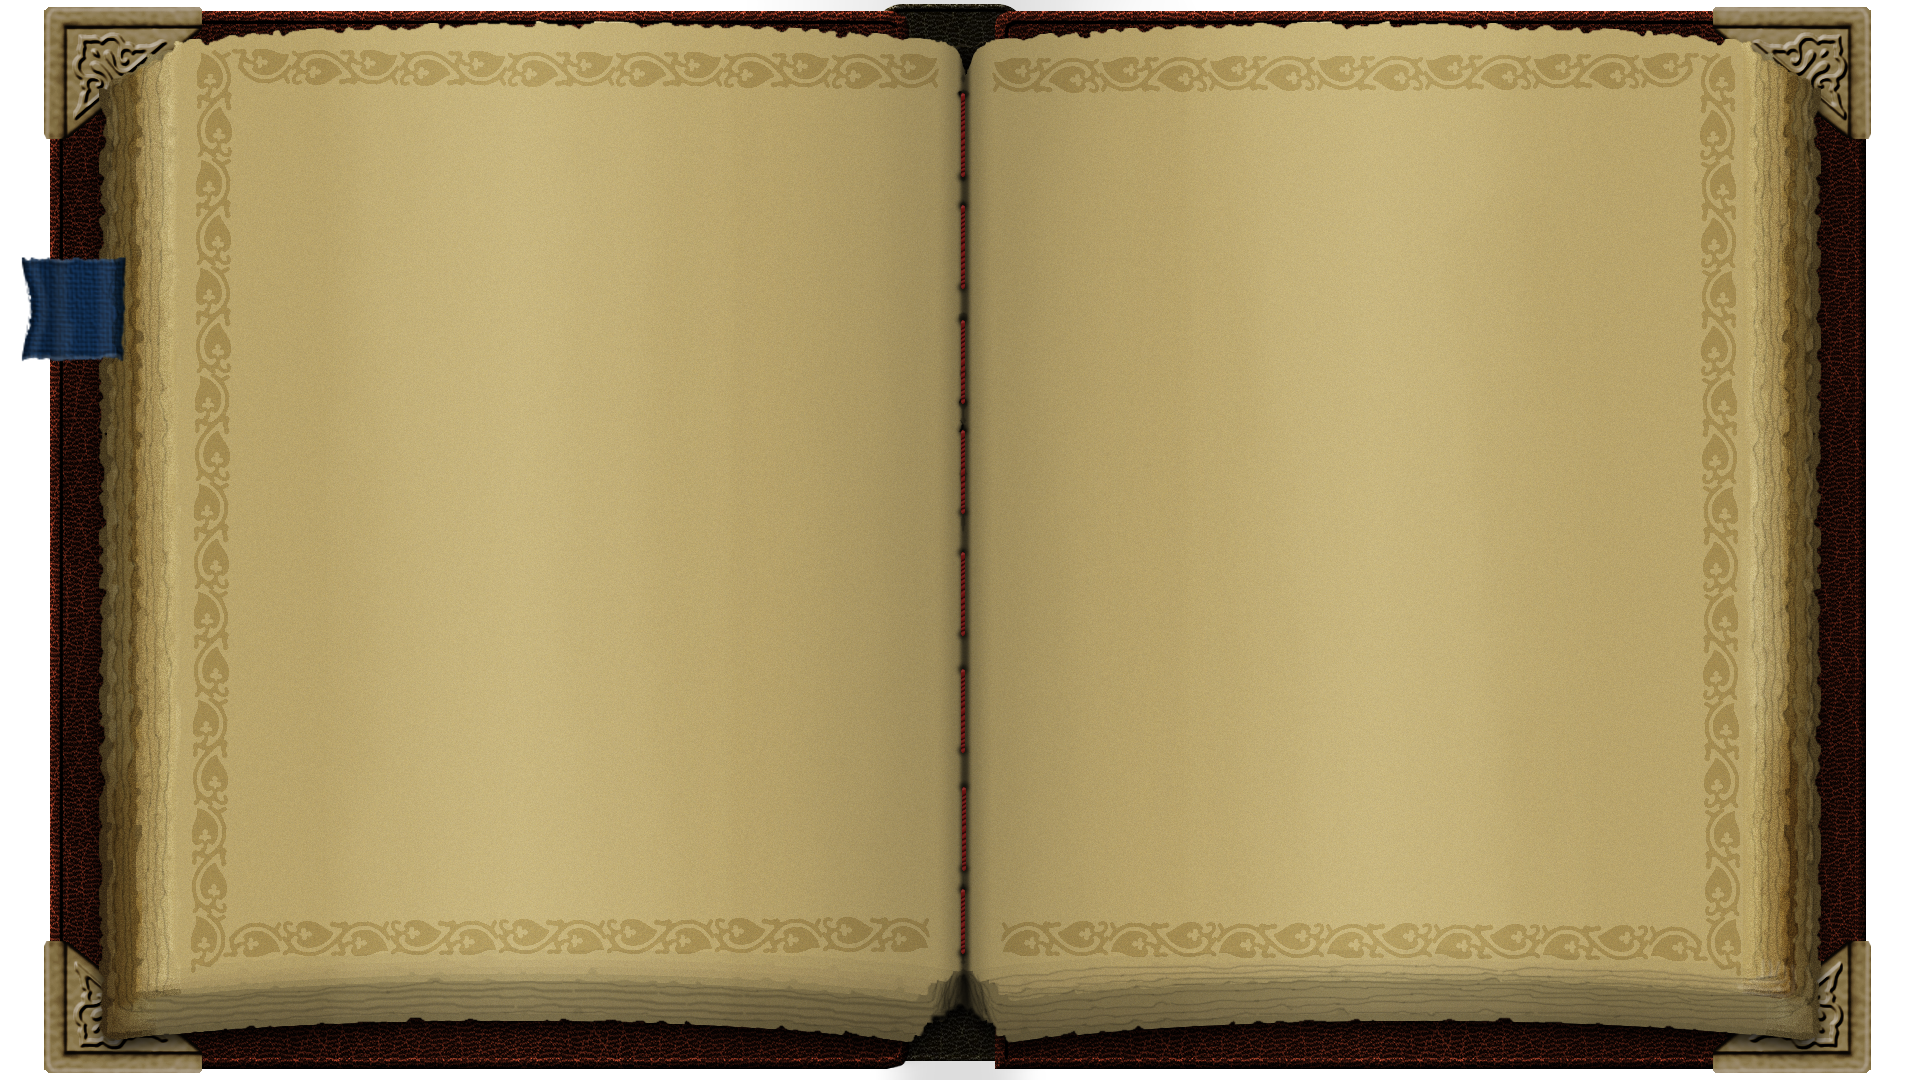
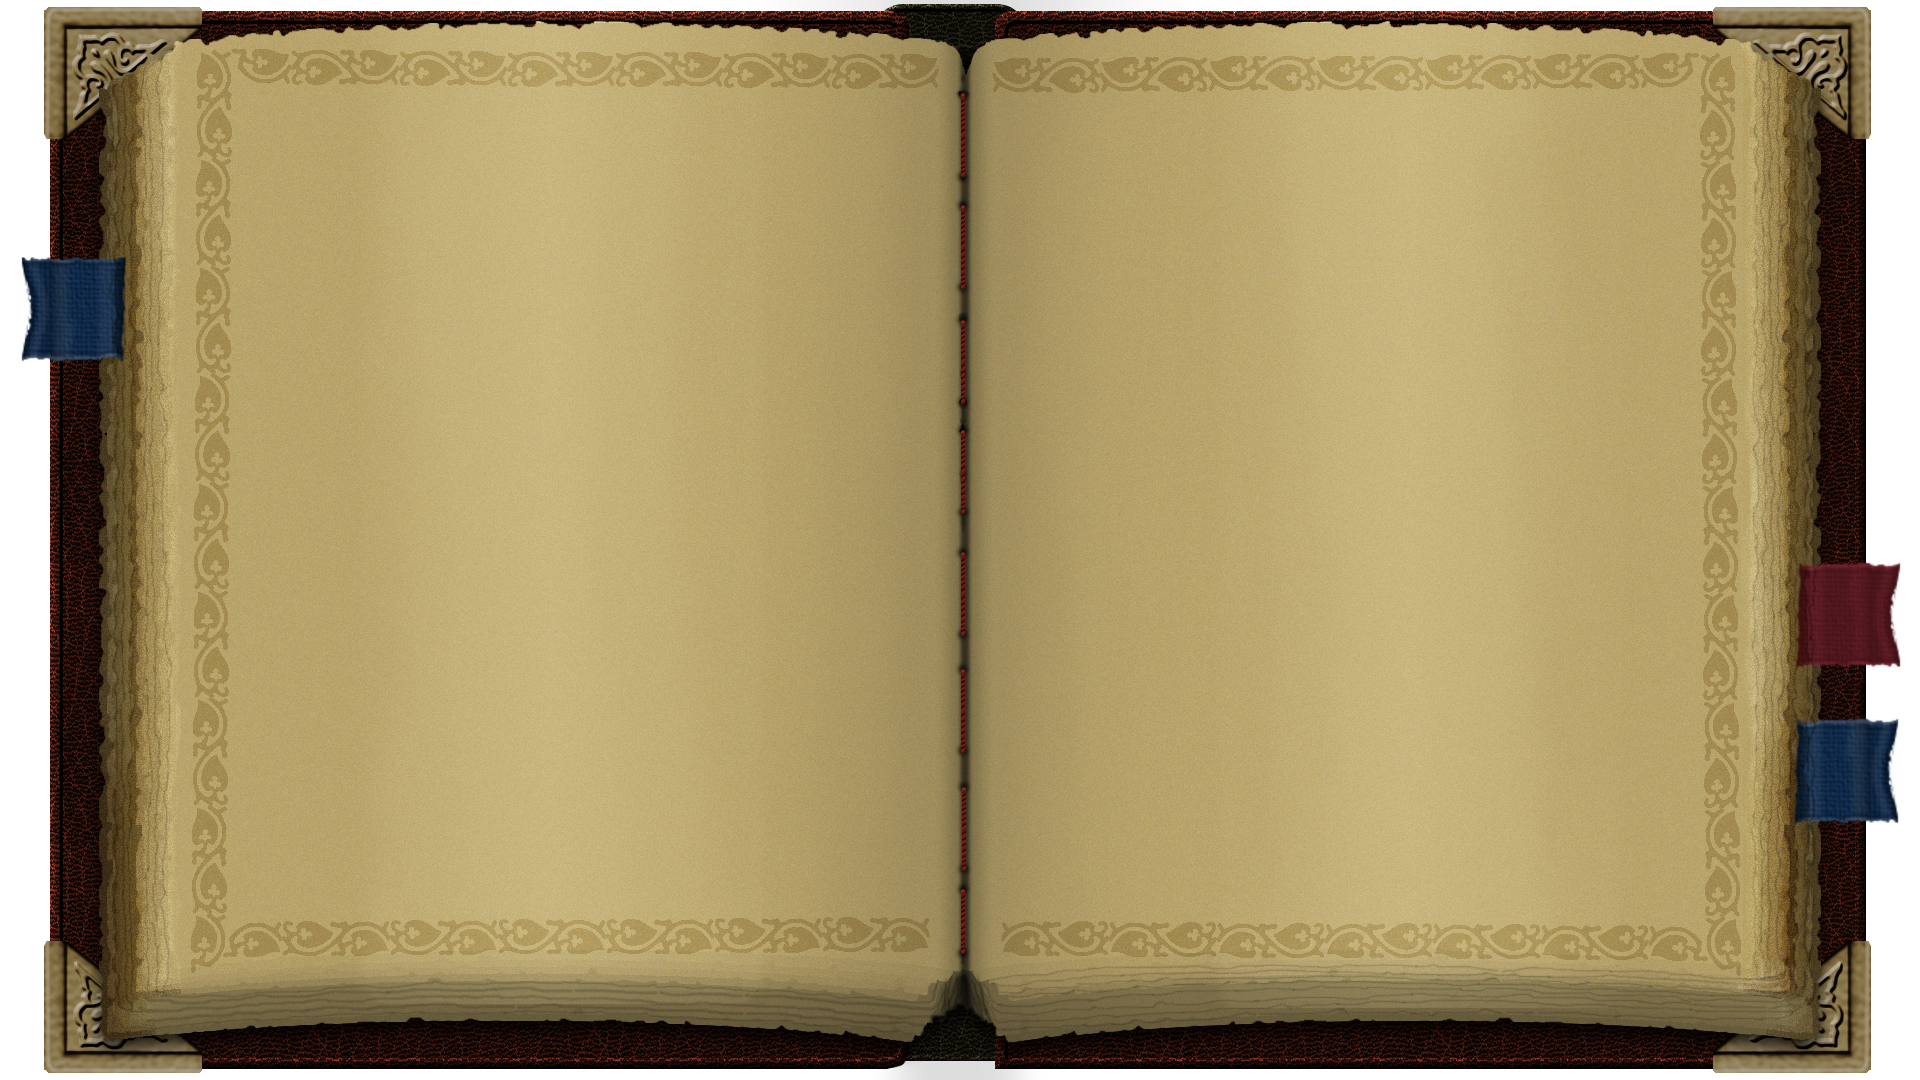
manage/build bookmarks, crafting buildings

Changed region(s): [[0.9375, 0.5194, 1.0, 0.7639]]

diff --git a/src/App.jsx b/src/App.jsx
@@ -2,11 +2,12 @@ import ResourceButton from "./ResourceButton";
 import "./App.css";
 import * as buildings from "./data/buildings";
 import * as craftedGoods from "./data/craftedGoods";
-import Build from "./Build";
 import { useEffect, useRef, useState } from "react";
 
-import BuildingsBar from "./BuildingsBar";
 import CraftButton from "./CraftButton";
+import CraftBuildingsPage from "./CraftBuildingsPage";
+import BuildBuildingPage from "./BuildBuildingPage";
+import Bookmark from "./Bookmark";
 
 function App() {
   const [resources, setResources] = useState({
@@ -18,6 +19,7 @@ function App() {
   const [production, setProduction] = useState({});
   const productionRef = useRef(production);
   const intervalsRef = useRef({});
+  const [avCraftBuildings, setAvCraftBuildings] = useState({});
 
   useEffect(() => {
     productionRef.current = production;
@@ -53,7 +55,7 @@ function App() {
     // Clean up intervals that are no longer in production
     Object.keys(intervalIds).forEach((id) => {
       const exists = Object.entries(production).some(
-        ([name, { resource }]) => `${name}-${resource}` === id
+        ([name, { resource }]) => `${name}-${resource}` === id,
       );
       if (!exists) {
         clearInterval(intervalIds[id]);
@@ -72,9 +74,9 @@ function App() {
   return (
     <div className="main">
       <div className="left">
-        <p>Your wood: {resources.wood}</p>
-        <p>Your stone: {resources.stone}</p>
-        <p>Your iron: {resources.iron}</p>
+        <p>wood: {resources.wood}</p>
+        <p>stone: {resources.stone}</p>
+        <p>iron: {resources.iron}</p>
         <p>
           {craftedGoods.plank.displayName}: {resources.plank}
         </p>
@@ -99,35 +101,20 @@ function App() {
       </div>
 
       <div className="right">
-        <Build
+        <div className="right-bookmarks">
+          <Bookmark bookmark={"Manage"} />
+          <Bookmark bookmark={"Build"} />
+        </div>
+        <BuildBuildingPage
+          buildings={buildings}
           setResources={setResources}
           resources={resources}
-          building={buildings.stoneMill}
           production={production}
           setProduction={setProduction}
+          setAvCraftBuildings={setAvCraftBuildings}
+          avCraftBuildings={avCraftBuildings}
         />
-
-        <Build
-          setResources={setResources}
-          resources={resources}
-          building={buildings.lumberyard}
-          production={production}
-          setProduction={setProduction}
-        />
-        <Build
-          setResources={setResources}
-          resources={resources}
-          building={buildings.ironMine}
-          production={production}
-          setProduction={setProduction}
-        />
-        <Build
-          setResources={setResources}
-          resources={resources}
-          building={buildings.sawMill}
-          production={production}
-          setProduction={setProduction}
-        />
+        <CraftBuildingsPage avCraftBuildings={avCraftBuildings} />
       </div>
     </div>
   );

diff --git a/src/App.css b/src/App.css
@@ -1,11 +1,11 @@
 html {
   width: 100%;
   height: 100%;
+  font-family: "Cinzel", serif;
 }
 
 body {
-  font-family: "UnifrakturMaguntia", cursive;
-  color: #3d2817;
+  color: #2a1a0f;
   font-size: 16px;
 }
 
@@ -25,6 +25,7 @@ body {
   background-size: 100% 100%;
   background-repeat: no-repeat;
   background-position: center;
+  position: relative;
 }
 
 .left {
@@ -51,7 +52,7 @@ body {
 }
 
 .right button {
-  font-family: "UnifrakturMaguntia", cursive;
+  font-family: inherit;
   cursor: pointer;
   font-size: 14px;
   background: transparent;
@@ -106,4 +107,27 @@ body {
 .building-info {
   max-width: 10vh;
   max-height: 10vh;
+  font-family: "UnifrakturMaguntia", cursive;
+}
+
+.right-bookmarks {
+  position: absolute;
+  right: 1.4%;
+  top: 55%;
+  z-index: 10;
+  display: flex;
+  flex-direction: column;
+  gap: 87px;
+}
+
+#bookmark {
+  text-orientation: mixed;
+  background: transparent;
+  border: none;
+  cursor: pointer;
+  font-size: 14px;
+  color: white;
+  font-weight: bold;
+  text-shadow: 1px 1px 2px rgba(0, 0, 0, 0.8);
+  padding: 10px 5px;
 }

diff --git a/src/BuildingIcon.jsx b/src/BuildingIcon.jsx
@@ -1,24 +1,11 @@
-import { useState } from "react";
-
-import BuildingUI from "./BuildingUI";
-
-export default function BuildingIcon({ img }) {
-  // const [showUI, setShowUI] = useState(false);
-
-  // function handleClick() {
-  //   setShowUI(!showUI);
-  // }
-
+export default function BuildingIcon({ buildingKey, building, onClick }) {
   return (
-    <>
-      <img src={img} alt="" className="icon" />
-      {/* {showUI && (
-        <BuildingUI
-          craftedGoods={craftedGoods}
-          resources={resources}
-          setResources={setResources}
-        />
-      )} */}
-    </>
+    <button
+      onClick={() => onClick(buildingKey, building)}
+      className="building-icon-container"
+    >
+      <img className="building-icon" src={building.img} alt={building.name} />
+      <div className="building-info">{building.name}</div>
+    </button>
   );
 }

diff --git a/src/CraftBuildingsPage.jsx b/src/CraftBuildingsPage.jsx
@@ -1,0 +1,28 @@
+function BuildingIcon({ buildingKey, building, onClick }) {
+  return (
+    <button
+      onClick={() => onClick(buildingKey, building)}
+      className="building-icon-container"
+    >
+      <img className="building-icon" src={building.img} alt={building.name} />
+      <div className="building-info">{building.name}</div>
+    </button>
+  );
+}
+
+export default function CraftBuildingsPage({ avCraftBuildings }) {
+  function handleClick(buildingKey, building) {
+    console.log(buildingKey, building);
+  }
+
+  const array = Object.entries(avCraftBuildings);
+
+  return array.map((entry) => (
+    <BuildingIcon
+      key={entry[0]}
+      buildingKey={entry[0]}
+      building={entry[1]}
+      onClick={handleClick}
+    />
+  ));
+}

diff --git a/src/Build.jsx b/src/Build.jsx
@@ -6,8 +6,13 @@ export default function Build({
   building,
   production,
   setProduction,
+  setAvCraftBuildings,
+  avCraftBuildings,
 }) {
   function handleClick() {
+    console.log("Building clicked:", building.name);
+    console.log("Building has craftedGoods?", building.craftedGoods);
+
     const canBuild = Object.entries(building.cost).every(
       ([resource, cost]) => resources[resource] >= cost
     );
@@ -34,6 +39,13 @@ export default function Build({
           }
         }
       );
+    }
+    if (building.craftedGoods) {
+      setAvCraftBuildings((prev) => {
+        const updated = { ...prev, [building.name]: building };
+        console.log(updated);
+        return updated;
+      });
     }
 
     setResources(newResources);

diff --git a/src/BuildBuildingPage.jsx b/src/BuildBuildingPage.jsx
@@ -1,0 +1,26 @@
+import Build from "./Build.jsx";
+
+export default function BuildBuildingPage({
+  buildings,
+  setResources,
+  resources,
+  production,
+  setProduction,
+  setAvCraftBuildings,
+  avCraftBuildings,
+}) {
+  const array = Object.entries(buildings);
+
+  return array.map((entry) => (
+    <Build
+      key={entry[0]}
+      building={entry[1]}
+      setResources={setResources}
+      resources={resources}
+      production={production}
+      setProduction={setProduction}
+      setAvCraftBuildings={setAvCraftBuildings}
+      avCraftBuildings={avCraftBuildings}
+    />
+  ));
+}

diff --git a/index.html b/index.html
@@ -7,7 +7,7 @@
     <link rel="preconnect" href="https://fonts.googleapis.com" />
     <link rel="preconnect" href="https://fonts.gstatic.com" crossorigin />
     <link
-      href="https://fonts.googleapis.com/css2?family=UnifrakturMaguntia&family=IM+Fell+English:ital@0;1&display=swap"
+      href="https://fonts.googleapis.com/css2?family=UnifrakturMaguntia&family=IM+Fell+English:ital@0;1&family=Cinzel:wght@400;700&display=swap"
       rel="stylesheet"
     />
     <title>crafting-game</title>

diff --git a/src/data/buildings.jsx b/src/data/buildings.jsx
@@ -1,5 +1,5 @@
 import sawmillImg from "/home/sttom/crafting-game/src/assets/sawmill.png";
-
+import forgeImg from "/home/sttom/crafting-game/src/assets/forge.png";
 export const stoneMill = {
   name: "Stone Mill",
   cost: {
@@ -34,4 +34,12 @@ export const sawMill = {
   name: "Saw Mill",
   cost: { stone: 100 },
   img: sawmillImg,
+  craftedGoods: "plank",
+};
+
+export const forge = {
+  name: "Forge",
+  cost: { iron: 100, stone: 75 },
+  img: forgeImg,
+  craftedGoods: "ironNails",
 };

diff --git a/src/Bookmark.jsx b/src/Bookmark.jsx
@@ -1,0 +1,3 @@
+export default function Bookmark({ bookmark }) {
+  return <button id="bookmark">{bookmark}</button>;
+}
